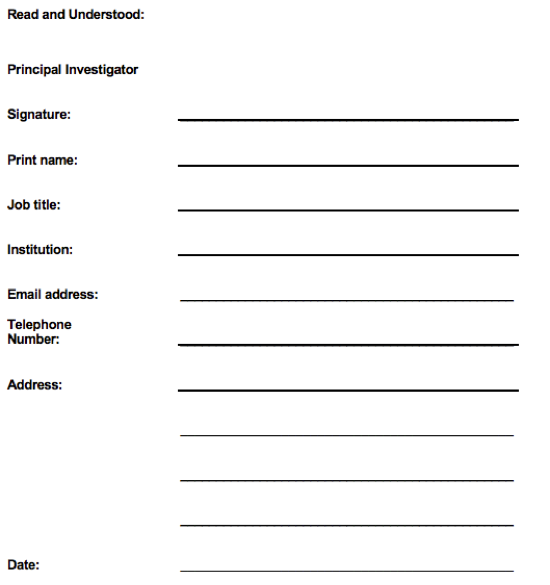
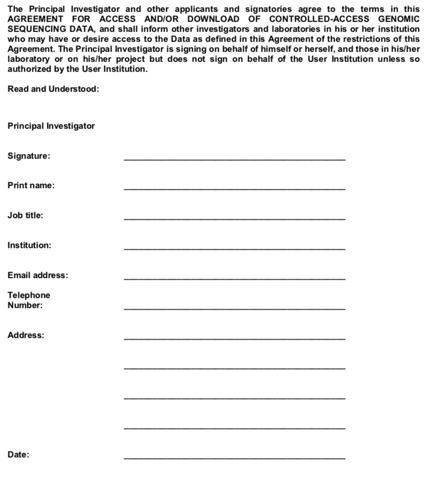
Replaced all remaining screenshots
-replaced screenshot for the checkboxs of DAUs as it also needed to be updated
-edited some text referring to the screenshot.
-replaced screenshot for the PI signature and info.
-replaced screenshot for the Institutional Authority signature and info.
-replaced screenshot for the Cheif Security Officier signature and info.
-replace screenshot for Data Download Initials

diff --git a/docs/guides/forms/how-to-fill-out-DAA.md b/docs/guides/forms/how-to-fill-out-DAA.md
@@ -6,11 +6,8 @@ To download the latest version of the [Data Access Agreement (DAA)](../../glossa
 
 Next, ensure that you have correctly filled out the 5 required sections of the DAA (Note that there are [2 additional required sections](#data-download-permission) if you intend to download data):
 
-1. **Page 7** [The Data Access Unit(s)](../../glossary.md#data-access-unit) you are applying for must be marked.
-    * Tip: The DAU(s) associated to the data you requested are listed in the section Controlled Access Data, above the Download Data Request
-      Form button. This can be found on the third step of the data request
-      process. This is a dynamic feature
-      that allows the user to see exactly which Data Access Units (datasets)
+1. **Page 7** All [Data Access Unit(s)](../../glossary.md#data-access-unit) for which you are applying must be marked.
+    * Tip: The DAU(s) associated to the data you requested are listed in the Controlled Access Data section, directly above the Download Data Access Agreement button. This can be found on the Request Data page which immediately follows your selection of data from the data browser. This is a dynamic feature that allows the user to see exactly which Data Access Units (datasets)
       they are requesting data from.
 
      ![](../../images/guides/forms/daa-1.png)
@@ -21,7 +18,7 @@ Next, ensure that you have correctly filled out the 5 required sections of the D
 
 3. **Page 9** Signature and information of the Principal Investigator.
     * A Principal Investigator (PI) is designated by the grantee organization to direct the project or activity being supported by the grant. The PI is responsible and accountable to the grantee for the proper conduct of the project or activity. The role of the PI within the eRA Commons is to complete the grant process, either by completing the required forms via the eRA Commons or by delegating this responsibility to another individual. A PI can access information for any grant for which they are designated the PI. See eRA Commons Roles & Privileges Matrix. Typically the PI signee is the faculty-level supervisor on the project, but it is not a requirement.
-
+  
     ![](../../images/guides/forms/daa-2.png)
 
 4. **Page 10 & 11** Signature and information of all other applicants.
@@ -31,7 +28,6 @@ Next, ensure that you have correctly filled out the 5 required sections of the D
 
 5. **Page 12** Signature and information of Institutional or Administrative Authority.
     * This individual cannot be the same Principal Investigator that signed above, as this section is to provide a second-party authority of the institution to ensure that the institution will uphold the terms of this agreement.
-
 
     ![](../../images/guides/forms/daa-4.png)
 
